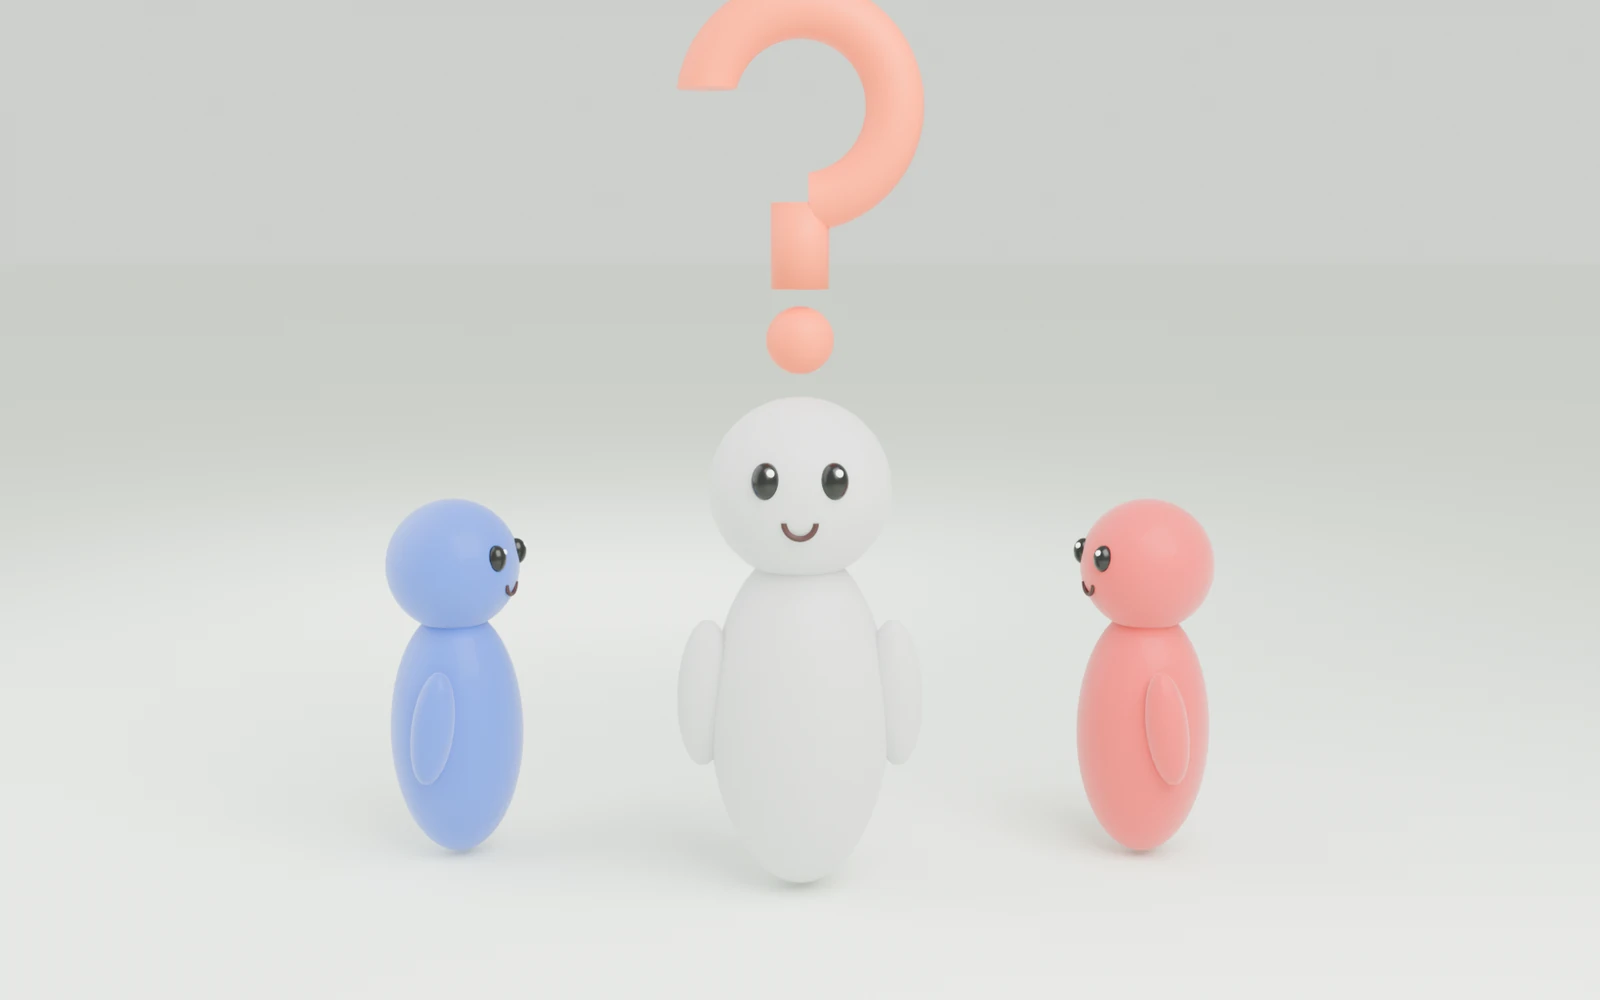
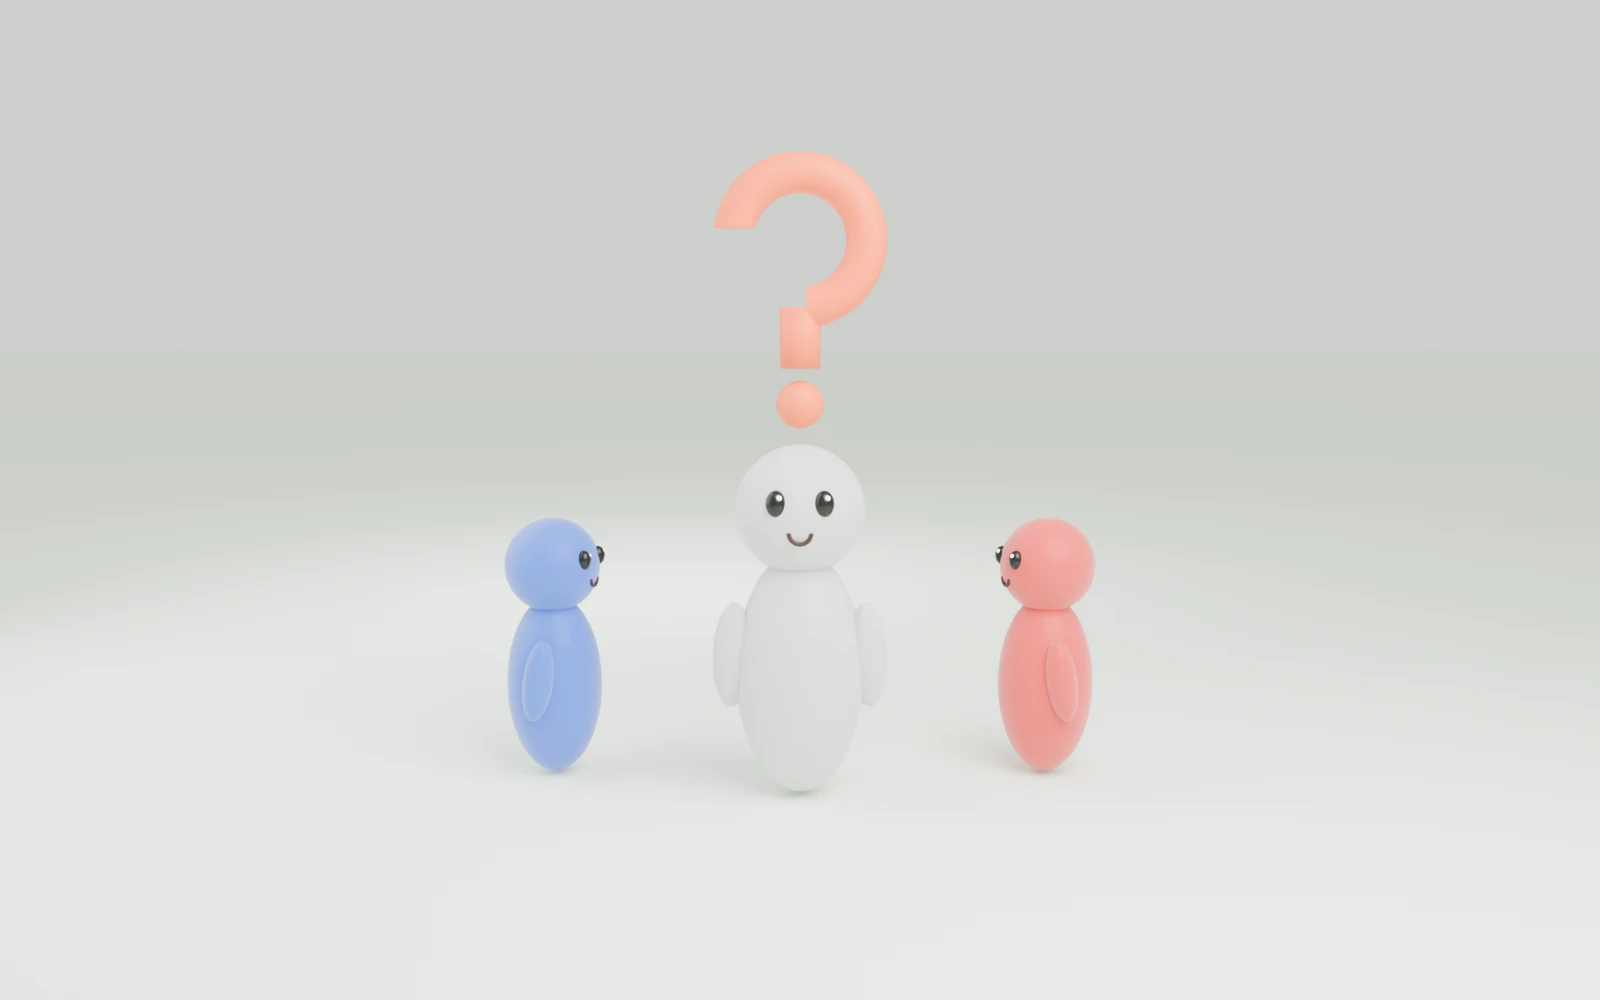
Zoom out the summary table and quiz images

diff --git a/index.html b/index.html
@@ -87,7 +87,7 @@
     <div class="tile tile-a"><h2 id="summary-title">The short version</h2></div>
     <div class="tile tile-b" aria-hidden="true"><span class="big-figure">+0.05</span></div>
     <figure class="tile tile-c">
-      <img src="assets/img/3d-turkey-800.webp" srcset="assets/img/3d-turkey-800.webp 800w, assets/img/3d-turkey-1600.webp 1600w" sizes="(max-width: 760px) 100vw, 50vw" width="800" height="800" loading="lazy" decoding="async" alt="3D close-up of the table: a roast turkey on a white plate, side dishes in orange and mint, a red and a blue figure at the edge.">
+      <img src="assets/img/3d-turkey-800.webp" srcset="assets/img/3d-turkey-800.webp 800w, assets/img/3d-turkey-1600.webp 1600w" sizes="(max-width: 760px) 100vw, 50vw" width="800" height="800" loading="lazy" decoding="async" alt="3D view from above the table: a roast turkey in the middle, side dishes in orange and mint, and figures in blue and red seated all around.">
     </figure>
     <div class="tile tile-text">
       <p class="summary-text"><strong>The question.</strong> Politics in North America is splitting into camps, and most people mostly talk to people who think like them. Does a meal with relatives who vote differently pull you towards them, or push you further away?

diff --git a/tools/blender-scenes.py b/tools/blender-scenes.py
@@ -158,7 +158,7 @@ if MODE in ("hero", "still_hero", "social"):
 elif MODE == "topdown":
     table_scene(); camera((0, -0.01, 10.2), (0, 0, 1.2), 36)
 elif MODE == "turkey":
-    table_scene(); camera((3.2, -3.4, 3.6), (0, 0, 1.75), 52)
+    table_scene(); camera((1.6, -5.6, 6.6), (0, 0.3, 1.25), 40)
 elif MODE == "track":
     anim = True
     for v in range(7):
@@ -181,7 +181,7 @@ elif MODE == "question":
     smooth(add("cylinder", (0.0, 0, 3.9), radius=0.17, depth=0.5, material=M["orange"]))
     smooth(add("uv_sphere", (0, 0, 3.35), (0.2, 0.2, 0.2), material=M["orange"]))
     figure(-2.2, 0.6, 1, (0, 0), scale=1.0); figure(2.2, 0.6, 5, (0, 0), scale=1.0)
-    camera((0, -10.5, 3.9), (0, 0, 2.4), 40)
+    camera((0, -11.5, 3.9), (0, 0, 2.55), 31)
 elif MODE == "magnifier":
     table_scene(chairs=False, seats=[(120, 1), (200, 5), (300, 2), (20, 6)])
     g = bpy.data.objects.new("glass", None); scene.collection.objects.link(g); g.location = (0.4, -0.6, 3.6); g.rotation_euler = (math.radians(62), 0, math.radians(20))
